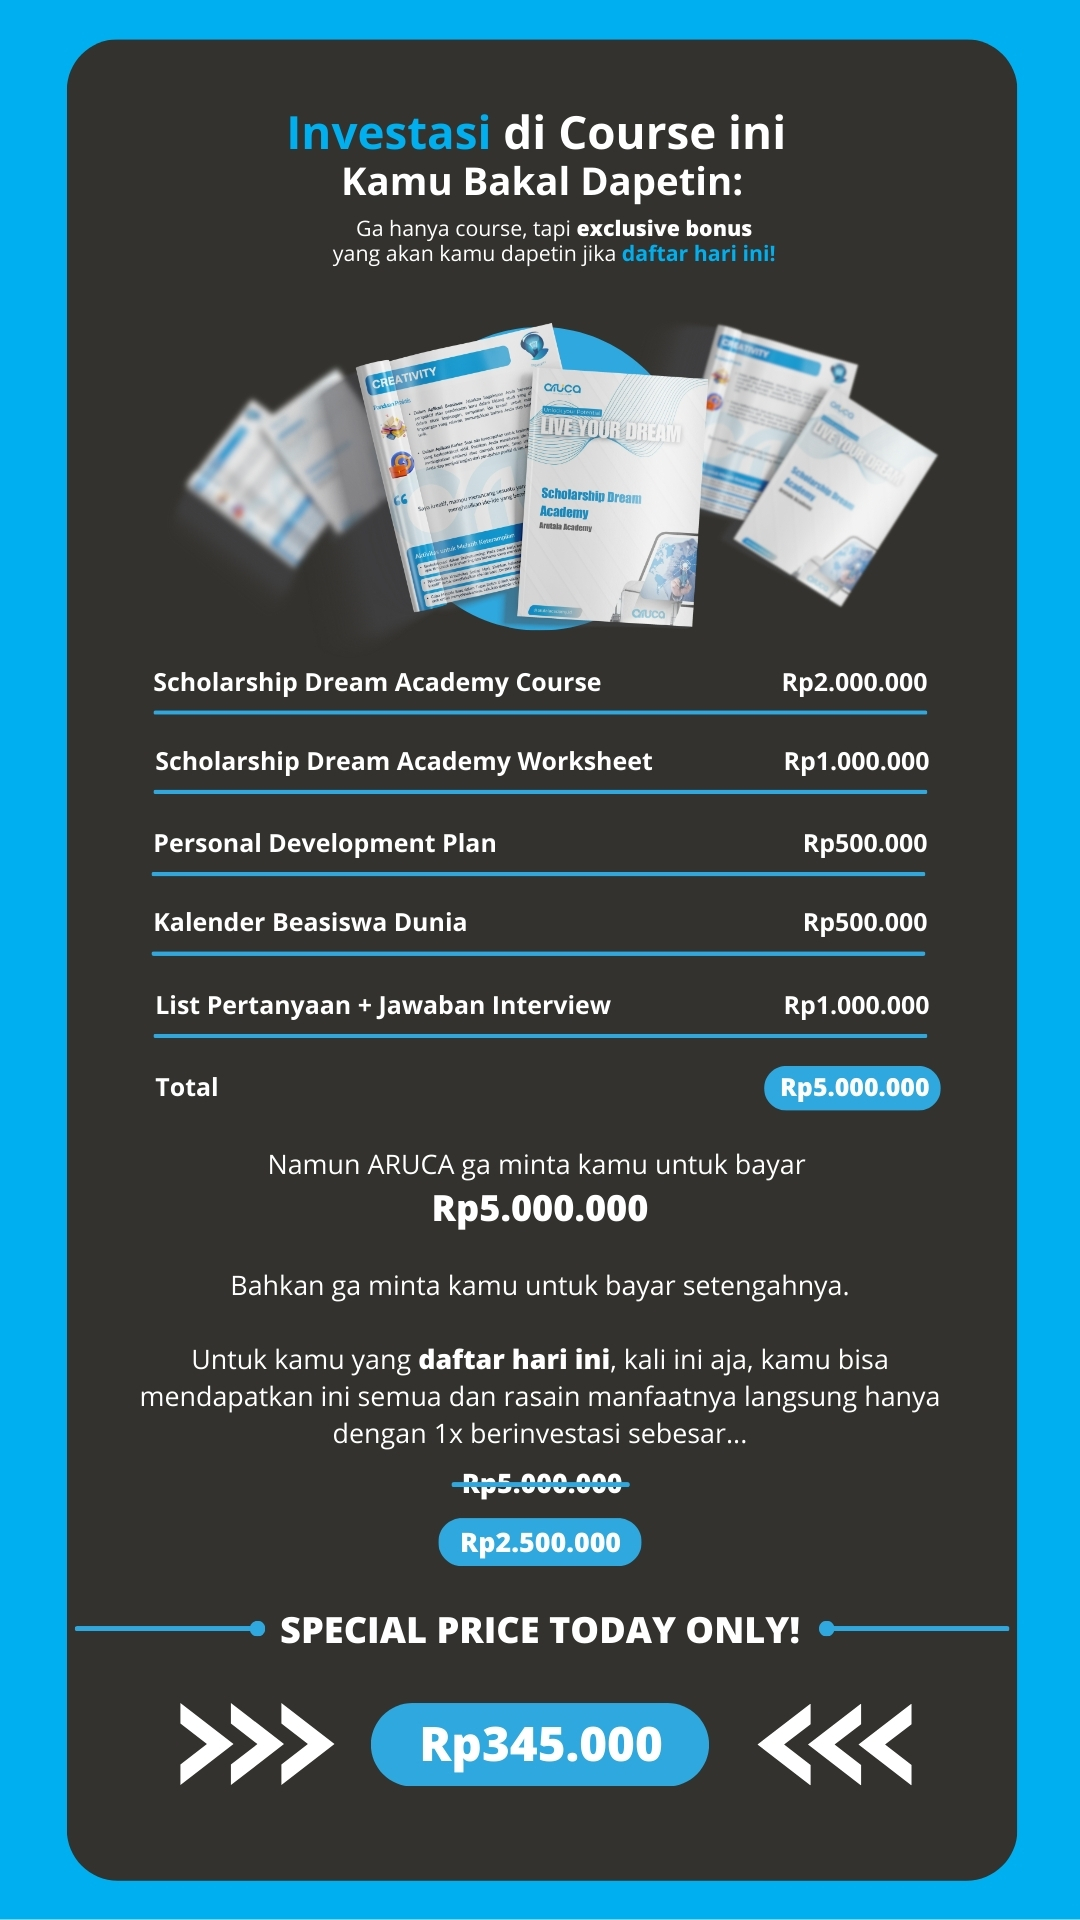
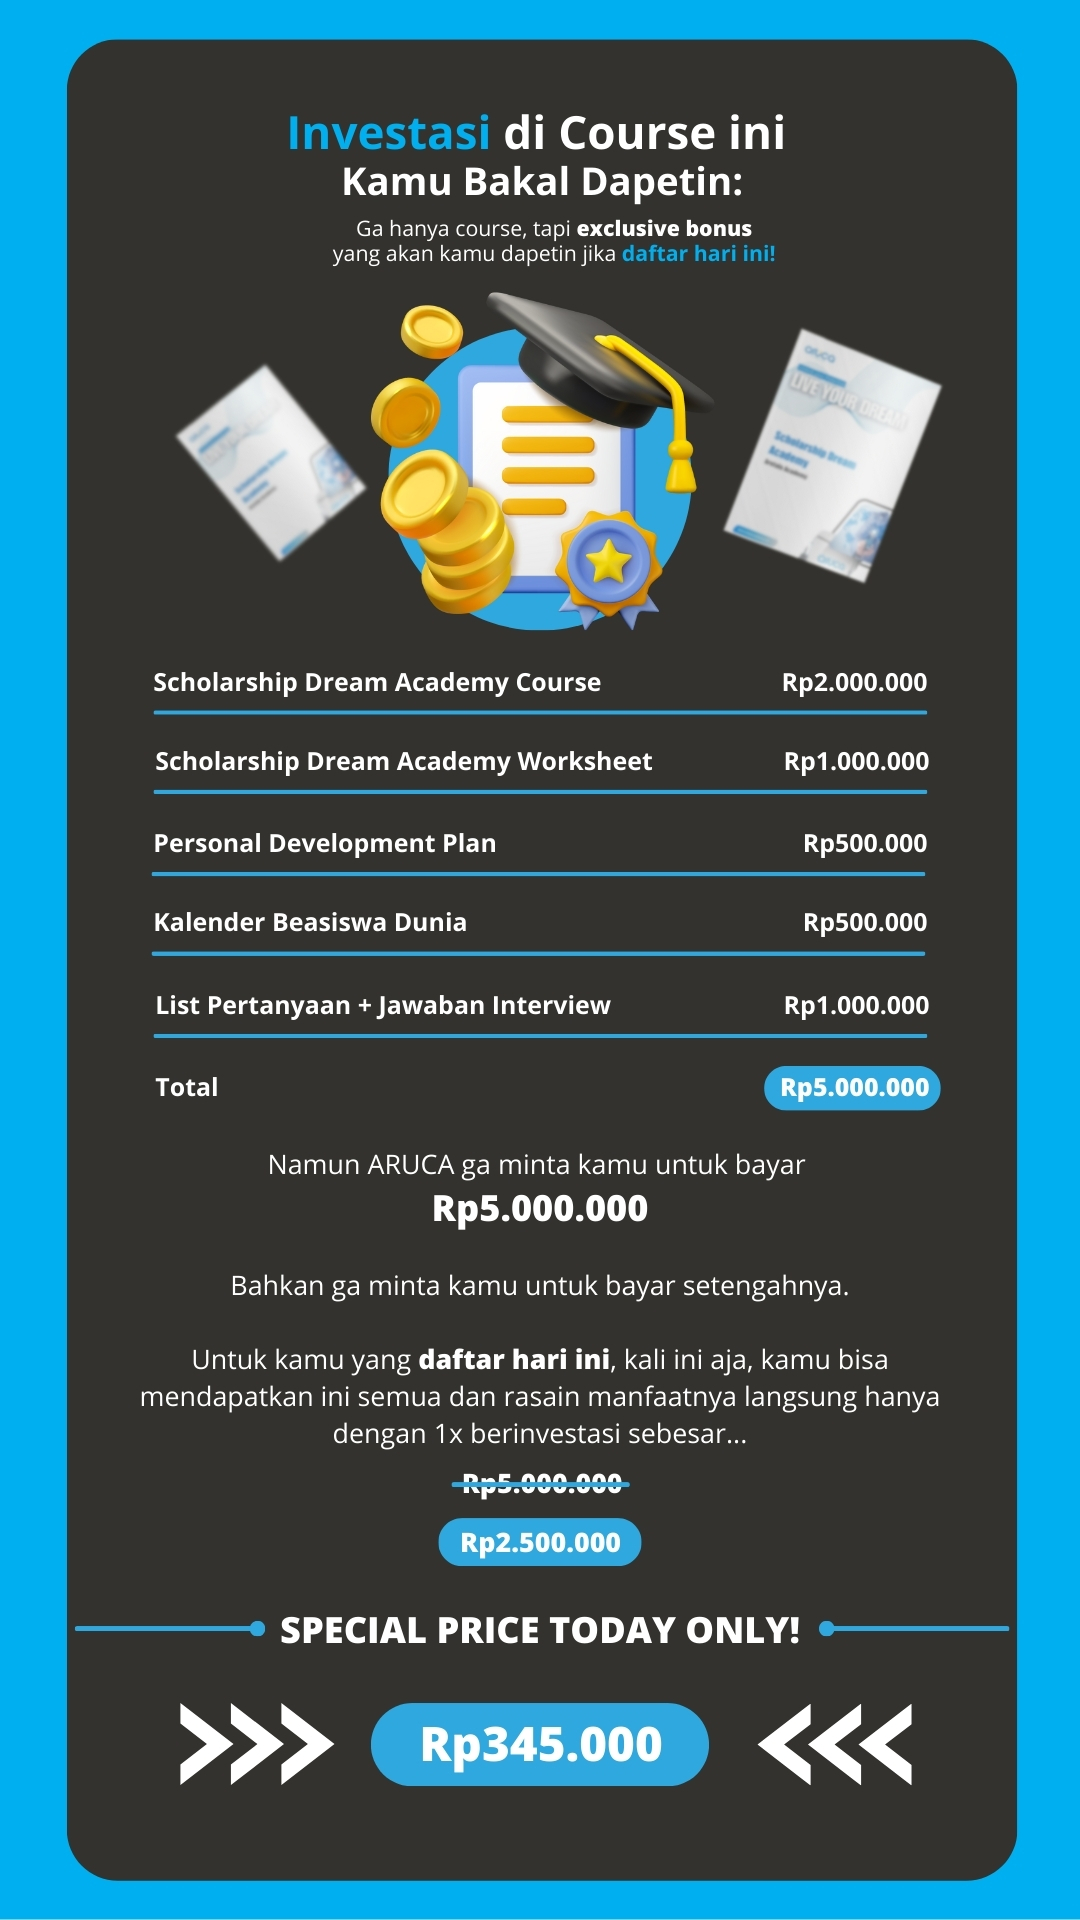
merubah gambar investasi

Changed region(s): [[0.1528, 0.1562, 0.8861, 0.3438]]

diff --git a/scholarship.html b/scholarship.html
@@ -43,7 +43,7 @@
       property="twitter:image"
       content="https://arutalacademy.id/img/icon.png"
     />
-    <!-- Meta end -->
+    <!-- Meta end. -->
 
     <!-- Feather Icons -->
     <script src="https://unpkg.com/feather-icons"></script>
